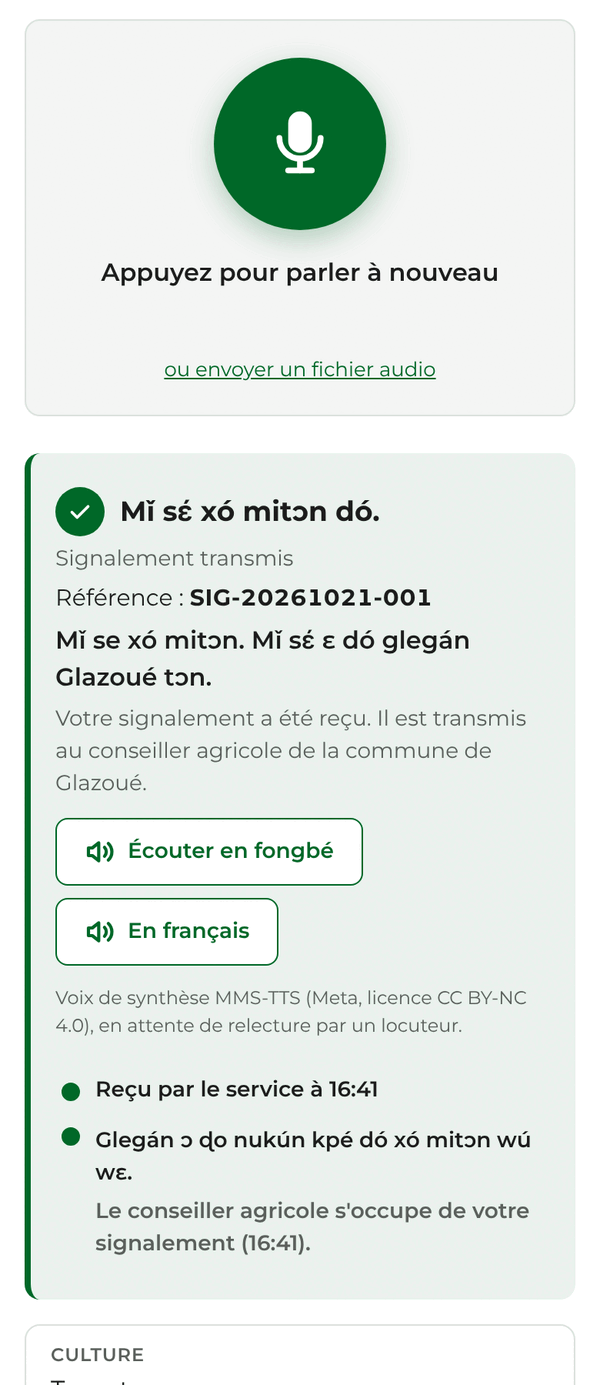
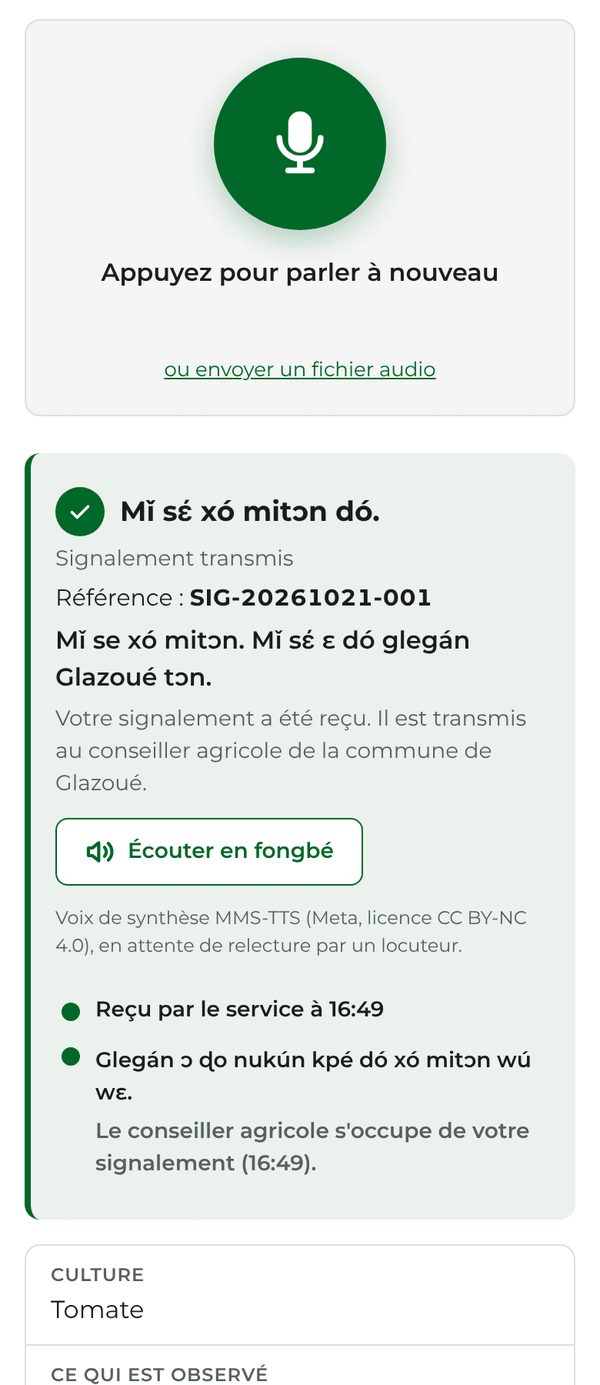
docs(readme): drop the french listen button from text and screenshots

Changed region(s): [[0.06, 0.652, 0.9, 1.0], [0.78, 0.652, 0.87, 0.683], [0.03, 0.8693, 0.06, 0.9625]]

diff --git a/README.md b/README.md
@@ -172,7 +172,7 @@ node scripts/lister-voix.js --json liste.json         # textes à dire et noms d
 python3 scripts/voix/generer.py liste.json public/voix # génère les manquants (sur un poste : torch, transformers, scipy, ffmpeg)
 ```
 
-Après une modification de `data/reponses.json` ou l'ajout d'un produit, d'un marché ou d'une commune, relancer ces deux commandes. Le bouton « En français » lit la traduction avec la voix du téléphone, quand le navigateur en propose une.
+Après une modification de `data/reponses.json` ou l'ajout d'un produit, d'un marché ou d'une commune, relancer ces deux commandes.
 
 ### Routes du serveur
 
